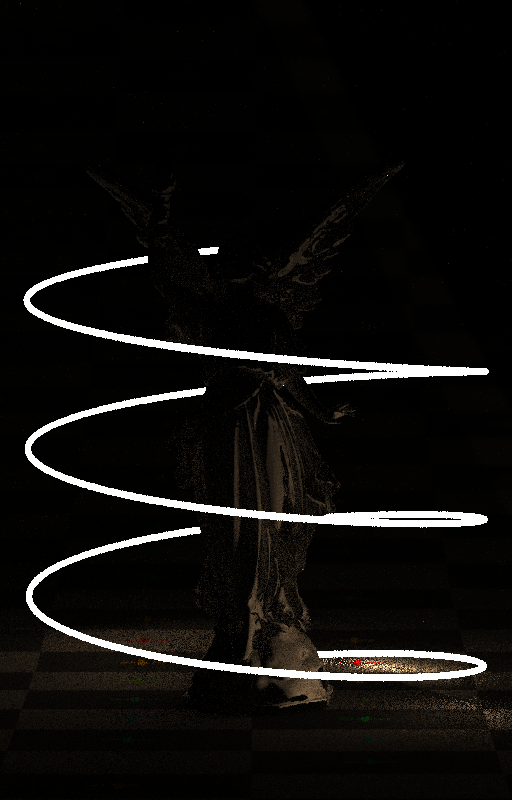
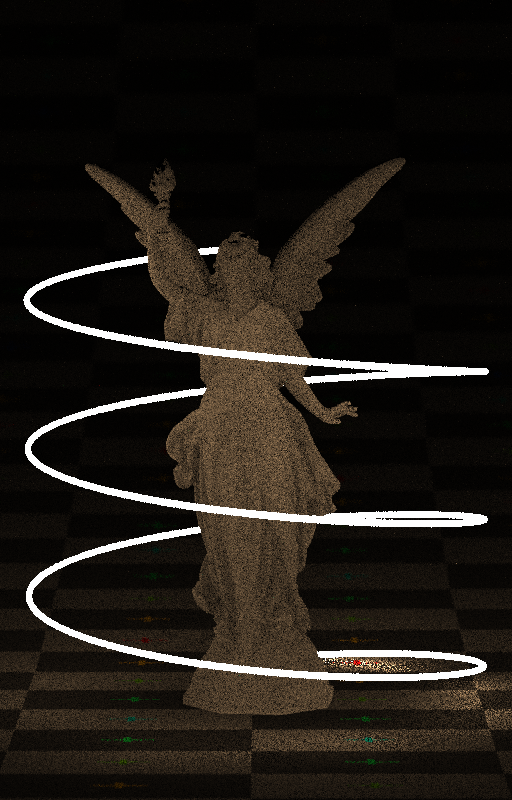
more bugged manylightsampler

Changed region(s): [[0.0, 0.1875, 1.0, 1.0], [0.0, 0.75, 0.0938, 0.7812], [0.0938, 0.7188, 0.125, 0.75]]

diff --git a/lighting/ManyLightSampler.cpp b/lighting/ManyLightSampler.cpp
@@ -94,12 +94,21 @@ Real ManyLightSampler::GeometricVariance(LightNode *_node) const {
 	return 0;
 }
 
+void ManyLightSampler::InitLeaf(LightNode *_node) {
+	std::unique_ptr<Real[]> d(new Real[_node->numLights]);
+	for (unsigned i = 0; i < _node->numLights; ++i) {
+		d[i] = lights[_node->firstLightIndex + i]->Power();
+	}
+	leafDistributions.insert({ _node->firstLightIndex, Distribution::Piecewise1D(d.get(), _node->numLights) });
+	_node->children[0] = _node->children[1] = nullptr;
+}
+
 /*
-	Recursive split. Inital _node must contain all lights.
+	Recursive SAOH split. Inital _node must contain all lights.
 */
 void ManyLightSampler::RecursiveBuild(LightNode *_node) {
-	
-	_node->bounds = lights[_node->firstLightIndex]->GetBounds();	//Confused why this is necassary...
+
+	_node->bounds = lights[_node->firstLightIndex]->GetBounds();
 	_node->orientationCone = OrientationCone::MakeCone(lights[_node->firstLightIndex]->GetDirection());
 	for (unsigned i = 0; i < _node->numLights; ++i) {
 		_node->bounds = maths::Union(_node->bounds, lights[i + _node->firstLightIndex]->GetBounds());
@@ -113,8 +122,9 @@ void ManyLightSampler::RecursiveBuild(LightNode *_node) {
 	const unsigned splitAxis = axes.x > axes.y && axes.x > axes.z ? 0 : (axes.y > axes.x && axes.y > axes.z) ? 1 : 2;
 
 	//Initialise buckets
-	Bucket buckets[numBuckets];
-	bool bucketInits[numBuckets] = { false };
+	std::unique_ptr<Bucket[]> buckets(new Bucket[numBuckets]);
+	std::unique_ptr<bool[]> bucketInits(new bool[numBuckets]);
+	std::fill(&bucketInits[0], &bucketInits[numBuckets], false);
 	for (unsigned i = _node->firstLightIndex; i < _node->firstLightIndex + _node->numLights; ++i) {
 		const Light *light = lights[i];
 		unsigned b = (Real)numBuckets * _node->bounds.Offset(light->GetBounds().Center())[splitAxis];
@@ -122,7 +132,7 @@ void ManyLightSampler::RecursiveBuild(LightNode *_node) {
 		if (!bucketInits[b]) {
 			buckets[b].totalPower = light->Power();
 			buckets[b].bounds = light->GetBounds();
-			buckets[b].cone = { light->GetDirection(), 0, PI / 2. };
+			buckets[b].cone = OrientationCone::MakeCone(light->GetDirection());
 			bucketInits[b] = true;
 		}
 		else {
@@ -161,16 +171,6 @@ void ManyLightSampler::RecursiveBuild(LightNode *_node) {
 
 	//Create leaf or split node
 	if (_node->numLights > 1 && minCost < _node->totalPower) {	//Split
-		LightNode *left = new LightNode;
-		LightNode *right = new LightNode;
-		_node->children[0] = left;
-		_node->children[1] = right;
-		left->bounds = leftBucket.bounds;
-		left->orientationCone = leftBucket.cone;
-		left->totalPower = leftBucket.totalPower;
-		right->bounds = rightBucket.bounds;
-		right->orientationCone = rightBucket.cone;
-		right->totalPower = rightBucket.totalPower;
 
 		auto pred = [&](const Light *l) {
 			unsigned b = _node->bounds.Offset(l->GetBounds().Center())[splitAxis] * (Real)numBuckets;
@@ -181,24 +181,36 @@ void ManyLightSampler::RecursiveBuild(LightNode *_node) {
 		Light **it = std::partition(&lights[_node->firstLightIndex], &lights[_node->firstLightIndex + _node->numLights - 1] + 1, pred);	//Range not inclusive of last, hence +1
 		const unsigned pivot = it - &lights[0];
 		//Set the light primitive range
-		left->numLights = pivot - _node->firstLightIndex;
-		right->firstLightIndex = pivot;
-		left->firstLightIndex = _node->firstLightIndex;
-		right->numLights = _node->numLights - left->numLights;
+		const unsigned leftNumLights = pivot - _node->firstLightIndex;
+		const unsigned rightNumLights = _node->numLights - leftNumLights;
 
-		//Split left and right since they are not leaves yet
-		RecursiveBuild(left);
-		RecursiveBuild(right);
-	}
-	else {	//Leaf light distribution and terminate recursion
-		std::unique_ptr<Real[]> d(new Real[_node->numLights]);
-		for (unsigned i = 0; i < _node->numLights; ++i) {
-			d[i] = lights[_node->firstLightIndex + i]->Power();
+		if (leftNumLights != 0 && rightNumLights != 0) {
+			LightNode *left = new LightNode {
+				{nullptr, nullptr},
+				_node->firstLightIndex,
+				leftNumLights,
+				leftBucket.bounds,
+				leftBucket.cone,
+				leftBucket.totalPower,
+				0	//Variance (to do)
+			};
+			LightNode *right = new LightNode {
+				{nullptr, nullptr},
+				pivot,
+				rightNumLights,
+				rightBucket.bounds,
+				rightBucket.cone,
+				rightBucket.totalPower,
+				0	//Variance (to do)
+			};
+			_node->children[0] = left;
+			_node->children[1] = right;
+			RecursiveBuild(left);
+			RecursiveBuild(right);
 		}
-		leafDistributions.insert({ _node->firstLightIndex, Distribution::Piecewise1D(d.get(), _node->numLights) });
-		_node->children[0] = _node->children[1] = nullptr;	//Defines it as a leaf
+		else InitLeaf(_node);
 	}
-	//_node->powerVariance = PowerVariance(_node);
+	else InitLeaf(_node);	//Leaf light distribution and terminate recursion (TODO add variance)
 }
 
 void ManyLightSampler::InitLights(const std::vector<Light *> &_lights) {
@@ -241,7 +253,7 @@ void ManyLightSampler::InitLights(const std::vector<Light *> &_lights) {
 	root->firstLightIndex = 0;
 	root->bounds = lights[0]->GetBounds();
 	root->totalPower = 0;
-	root->powerVariance = 0;
+	root->clusterVariance = 0;
 	root->orientationCone = OrientationCone::MakeCone(lights[0]->GetDirection());
 	root->children[0] = root->children[1] = nullptr;
 	for (unsigned i = 0; i < root->numLights; ++i) {
@@ -257,12 +269,12 @@ Real ManyLightSampler::ImportanceMeasure(const ScatterEvent &_event, LightNode *
 	const Real d2 = maths::Dot(delta, delta);
 	const Real d = std::sqrt(d2);
 	delta /= d;
-	const Real bsdfApprox = maths::Clamp(maths::Dot(delta, _event.hit->normalS), (Real)0, (Real)1);	//Does not approx the exact bsdf, which could be very useful!
+	const Real thetaI = std::acos(maths::Dot(delta, _event.hit->normalS));
 	const Real theta = std::acos(maths::Dot(delta, _node->orientationCone.axis));
 	const Vec3 box = _node->bounds.max - _node->bounds.min;
 	const Real thetaU = std::atan((box.Magnitude() * .5) / d);
 	const Real thetaDash = std::max(theta - _node->orientationCone.thetaO - thetaU, (Real)0);
-	return (bsdfApprox * E) / (d2) * (thetaDash < _node->orientationCone.thetaE ? std::cos(thetaDash) : 0);
+	return (std::cos(std::max(thetaI - thetaU, (Real)0)) * E) / (d2) * (thetaDash < _node->orientationCone.thetaE ? std::cos(thetaDash) : 0);
 }
 
 Real ManyLightSampler::SplitMeasure(LightNode *_node) const {
@@ -277,12 +289,18 @@ Light *ManyLightSampler::PickLight(const ScatterEvent &_event, Real _epsilon, Li
 	else {
 		const Real IL = ImportanceMeasure(_event, _node->children[0]);
 		const Real IR = ImportanceMeasure(_event, _node->children[1]);
-		if (_epsilon < IL / (IL + IR)) {
-			_epsilon = _epsilon * (IL + IR) / IL;
+		const Real PL = IL / (IL + IR);
+		const Real PR = 1 - PL;
+		if (_epsilon < PL) {
+			//_epsilon = _epsilon * (IL + IR) / IL;
+			_epsilon /= PL;
+			*_pdf *= PL;
 			return PickLight(_event, _epsilon, _node->children[0], _pdf);
 		}
 		else {
-			_epsilon = (_epsilon * (IL + IR) - IL) / IR;
+			//_epsilon = (_epsilon * (IL + IR) - IL) / IR;
+			_epsilon = (_epsilon - PL) / PR;
+			*_pdf *= PR;
 			return PickLight(_event, _epsilon, _node->children[1], _pdf);
 		}
 	}

diff --git a/lighting/ManyLightSampler.h b/lighting/ManyLightSampler.h
@@ -57,7 +57,7 @@ class ManyLightSampler : public LightSampler {
 			unsigned firstLightIndex, numLights;
 			Bounds bounds;	//'each level of the hierarchy stores spatial and orientation bounds, as well as the energy total for all lights contained below.'
 			OrientationCone orientationCone;
-			Real totalPower, powerVariance;	//Total power in cluster and variance of cluster
+			Real totalPower, clusterVariance;	//Total power in cluster and variance of cluster
 
 			~LightNode();
 
@@ -86,6 +86,11 @@ class ManyLightSampler : public LightSampler {
 			Initiates root node as an unfinished leaf over all lights ready for RecursiveBuild().
 		*/
 		void InitLights(const std::vector<Light *> &_lights);
+
+		/*
+			Converts _node into a leaf over range of lights and builds respective distribution.
+		*/
+		void InitLeaf(LightNode *_node);
 
 		/*
 			Orientation cone measure function - analagous to bounding box surface area (MArea)
